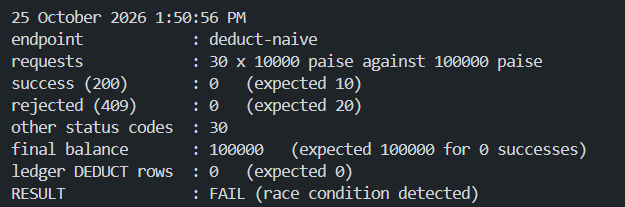
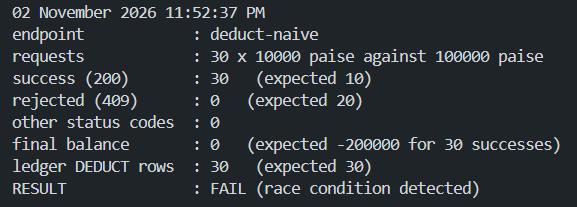
fix(wallet-service): naive test run

Changed region(s): [[0.0, 0.1449, 0.9983, 0.9855], [0.0, 0.029, 0.4679, 0.1159]]

diff --git a/services/wallet/app/service.py b/services/wallet/app/service.py
@@ -1,4 +1,4 @@
-from time import time
+import time
 from sqlalchemy import text
 from sqlalchemy.exc import IntegrityError
 
